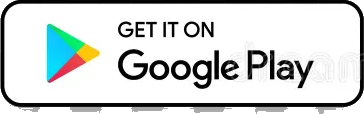
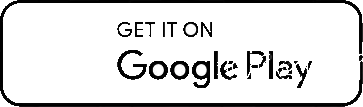
Footer: clean store badges, compact native app footer, badge regen script
- Regenerate Play/App Store footer PNGs from stock asset; add scripts/generate-footer-store-badges.py and scripts/assets source PNG.
- Next/Image dimensions for footer badges; mainpage footer matches.
- Compact premium footer for Capacitor (useCompactAppFooter + NEXT_PUBLIC_MOBILE_SHELL on build:mobile).

Made-with: Cursor

diff --git a/app/src/components/Footer.tsx b/app/src/components/Footer.tsx
@@ -4,6 +4,7 @@ import React from "react";
 import Link from "next/link";
 import Image from "next/image";
 import { analytics } from "@/lib/analytics";
+import { useCompactAppFooter } from "@/hooks/useCompactAppFooter";
 import {
   Facebook,
   Twitter,
@@ -24,7 +25,47 @@ const socialLinks = [
   { name: "LinkedIn", href: "https://www.linkedin.com/company/job-pool/posts/?feedView=all", icon: Linkedin },
 ];
 
+/** Minimal footer for native iOS/Android shell — legal, support, brand only. */
+function AppShellFooter() {
+  return (
+    <footer className="border-t border-white/[0.06] bg-gradient-to-b from-slate-900 to-slate-950 text-white">
+      <div className="mx-auto max-w-md px-6 py-10 sm:py-12">
+        <div className="flex flex-col items-center text-center">
+          <Link
+            href="/"
+            className="inline-flex rounded-xl bg-white/95 p-2 shadow-sm ring-1 ring-white/10 transition hover:bg-white"
+          >
+            <img src="/images/new-logo.png" alt="JobPool" className="h-9 w-auto" />
+          </Link>
+          <nav
+            className="mt-8 flex flex-wrap items-center justify-center gap-x-8 gap-y-3 text-[13px] font-medium tracking-wide text-slate-400"
+            aria-label="Legal and support"
+          >
+            <Link href="/privacy-policy" className="transition hover:text-white">
+              Privacy
+            </Link>
+            <Link href="/termsandconditions" className="transition hover:text-white">
+              Terms
+            </Link>
+            <Link href="/support" className="transition hover:text-white">
+              Support
+            </Link>
+          </nav>
+          <p className="mt-10 text-[11px] font-medium uppercase tracking-[0.2em] text-slate-600">
+            © {new Date().getFullYear()} Klughire Pvt Limited
+          </p>
+        </div>
+      </div>
+    </footer>
+  );
+}
+
 const Footer: React.FC = () => {
+  const compact = useCompactAppFooter();
+  if (compact) {
+    return <AppShellFooter />;
+  }
+
   return (
     <footer className="bg-slate-900 text-white">
       <div className="mx-auto max-w-7xl px-4 py-12 sm:px-6 lg:px-8 lg:py-16">
@@ -173,8 +214,8 @@ const Footer: React.FC = () => {
                   <Image
                     src="/images/store/footer-google-play.png"
                     alt="Get it on Google Play"
-                    width={364}
-                    height={114}
+                    width={363}
+                    height={107}
                     className="h-12 w-auto sm:h-14 md:h-16 object-contain drop-shadow-lg"
                   />
                 </a>
@@ -188,8 +229,8 @@ const Footer: React.FC = () => {
                   <Image
                     src="/images/store/footer-app-store.png"
                     alt="Download on the App Store"
-                    width={364}
-                    height={112}
+                    width={362}
+                    height={107}
                     className="h-12 w-auto sm:h-14 md:h-16 object-contain drop-shadow-lg"
                   />
                 </a>

diff --git a/app/src/components/mainpage/footer.tsx b/app/src/components/mainpage/footer.tsx
@@ -275,8 +275,8 @@ export function Footer() {
                 <Image
                   src="/images/store/footer-google-play.png"
                   alt="Get it on Google Play"
-                  width={364}
-                  height={114}
+                  width={363}
+                  height={107}
                   className="h-12 w-auto sm:h-14 md:h-16 object-contain drop-shadow-lg"
                 />
               </a>
@@ -290,8 +290,8 @@ export function Footer() {
                 <Image
                   src="/images/store/footer-app-store.png"
                   alt="Download on the App Store"
-                  width={364}
-                  height={112}
+                  width={362}
+                  height={107}
                   className="h-12 w-auto sm:h-14 md:h-16 object-contain drop-shadow-lg"
                 />
               </a>

diff --git a/app/src/hooks/useCompactAppFooter.ts b/app/src/hooks/useCompactAppFooter.ts
@@ -1,0 +1,27 @@
+"use client";
+
+import { useLayoutEffect, useState } from "react";
+
+/**
+ * True when the UI runs inside the Capacitor native shell (iOS/Android), either
+ * from a mobile export build (NEXT_PUBLIC_MOBILE_SHELL) or at runtime via Capacitor.
+ */
+export function useCompactAppFooter(): boolean {
+  const [compact, setCompact] = useState(
+    () => process.env.NEXT_PUBLIC_MOBILE_SHELL === "true",
+  );
+
+  useLayoutEffect(() => {
+    if (process.env.NEXT_PUBLIC_MOBILE_SHELL === "true") return;
+    let cancelled = false;
+    void import("@capacitor/core").then(({ Capacitor }) => {
+      if (cancelled) return;
+      if (Capacitor.isNativePlatform()) setCompact(true);
+    });
+    return () => {
+      cancelled = true;
+    };
+  }, []);
+
+  return compact;
+}

diff --git a/scripts/generate-footer-store-badges.py b/scripts/generate-footer-store-badges.py
@@ -1,0 +1,107 @@
+#!/usr/bin/env python3
+"""Regenerate app/public/images/store/footer-*.png from the two-in-one stock PNG.
+
+Uses flood fill from image corners (stops at black badge strokes) plus light
+defringe on neutral gray pixels at alpha edges.
+"""
+from __future__ import annotations
+
+import sys
+from collections import deque
+from pathlib import Path
+
+import numpy as np
+from PIL import Image
+
+REPO = Path(__file__).resolve().parents[1]
+DEFAULT_SRC = REPO / "scripts/assets/two-badges-stock.png"
+OUT_DIR = REPO / "app/public/images/store"
+
+
+def flood_bg(rgb: np.ndarray) -> np.ndarray:
+    h, w = rgb.shape[:2]
+
+    def is_hard_stop(r: int, g: int, b: int) -> bool:
+        return max(r, g, b) < 42
+
+    vis = np.zeros((h, w), dtype=bool)
+    q: deque[tuple[int, int]] = deque()
+    for x, y in ((0, 0), (w - 1, 0), (0, h - 1), (w - 1, h - 1)):
+        if not vis[y, x]:
+            vis[y, x] = True
+            q.append((x, y))
+    while q:
+        x, y = q.popleft()
+        for dx, dy in ((1, 0), (-1, 0), (0, 1), (0, -1)):
+            nx, ny = x + dx, y + dy
+            if nx < 0 or nx >= w or ny < 0 or ny >= h or vis[ny, nx]:
+                continue
+            r, g, b = rgb[ny, nx].astype(int)
+            if is_hard_stop(r, g, b):
+                continue
+            vis[ny, nx] = True
+            q.append((nx, ny))
+    return vis
+
+
+def trim_fg_rgba(rgba: np.ndarray) -> np.ndarray:
+    ys, xs = np.where(rgba[:, :, 3] > 0)
+    if len(xs) == 0:
+        return rgba
+    y0, y1 = ys.min(), ys.max() + 1
+    x0, x1 = xs.min(), xs.max() + 1
+    return rgba[y0:y1, x0:x1]
+
+
+def defringe_rgba(rgba: np.ndarray, gray_lo: float = 160, gray_hi: float = 250) -> np.ndarray:
+    a = rgba[:, :, 3].astype(np.float32) / 255.0
+    r = rgba[:, :, 0].astype(np.float32)
+    g = rgba[:, :, 1].astype(np.float32)
+    b = rgba[:, :, 2].astype(np.float32)
+    mx = np.maximum(np.maximum(r, g), b)
+    mn = np.minimum(np.minimum(r, g), b)
+    chroma = mx - mn
+    neutral = (chroma < 30) & (mn > gray_lo) & (mx < gray_hi)
+    h, w = a.shape
+    amin = np.ones_like(a)
+    for dy, dx in ((-1, 0), (1, 0), (0, -1), (0, 1)):
+        sl = np.s_[max(0, -dy) : h - max(0, dy), max(0, -dx) : w - max(0, dx)]
+        aa = a[max(0, dy) : h + min(0, dy), max(0, dx) : w + min(0, dx)]
+        amin[sl] = np.minimum(amin[sl], aa)
+    edge = (a > 0.05) & (amin < 0.95)
+    kill = neutral & edge
+    out = np.array(rgba, copy=True)
+    out[kill, 3] = 0
+    return out
+
+
+def main() -> None:
+    src = Path(sys.argv[1]).expanduser() if len(sys.argv) > 1 else DEFAULT_SRC
+    if not src.is_file():
+        print(f"Missing source image: {src}", file=sys.stderr)
+        sys.exit(1)
+    rgb = np.array(Image.open(src).convert("RGB"))
+    h, w = rgb.shape[:2]
+    bg = flood_bg(rgb)
+    fg = ~bg
+    half = w // 2
+    chunks = (("footer-google-play", slice(0, half)), ("footer-app-store", slice(half, w)))
+    OUT_DIR.mkdir(parents=True, exist_ok=True)
+    for name, sl in chunks:
+        sub_rgb = rgb[:, sl, :].copy()
+        sub_bg = bg[:, sl].copy()
+        sub_fg = ~sub_bg
+        rgba = np.zeros((sub_rgb.shape[0], sub_rgb.shape[1], 4), dtype=np.uint8)
+        rgba[:, :, :3] = sub_rgb
+        rgba[:, :, 3] = (sub_fg.astype(np.uint8) * 255)
+        rgba = trim_fg_rgba(rgba)
+        rgba = defringe_rgba(rgba)
+        rgba = trim_fg_rgba(rgba)
+        out_path = OUT_DIR / f"{name}.png"
+        Image.fromarray(rgba).save(out_path, optimize=True)
+        im = Image.open(out_path)
+        print(f"{name}: {im.size[0]}x{im.size[1]} -> {out_path.relative_to(REPO)}")
+
+
+if __name__ == "__main__":
+    main()
